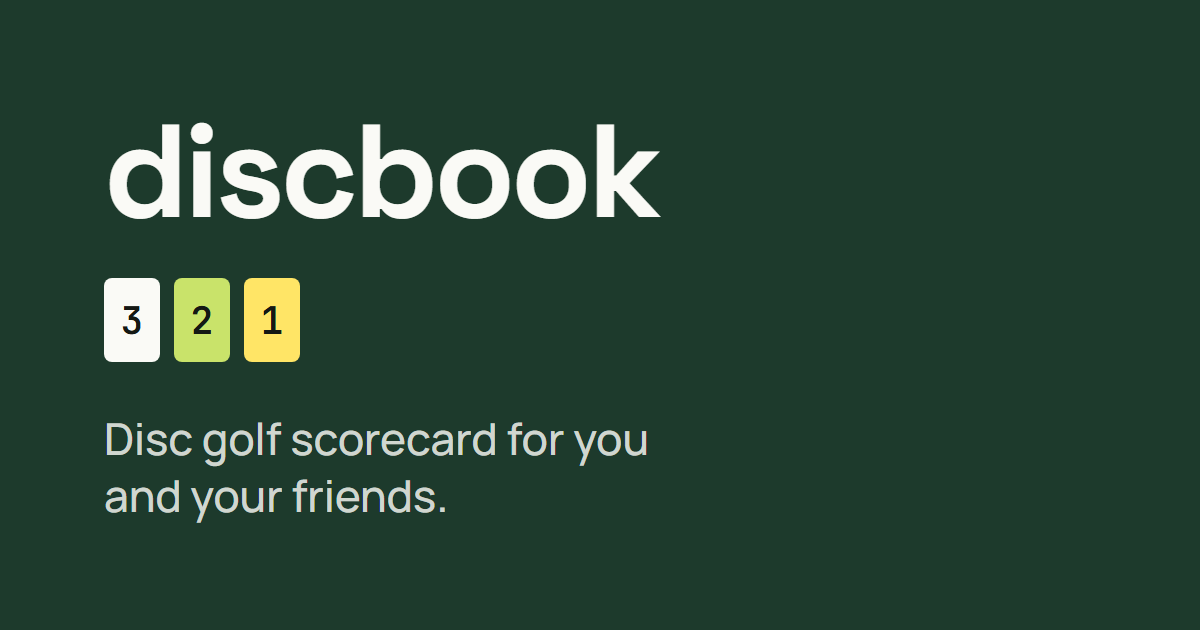
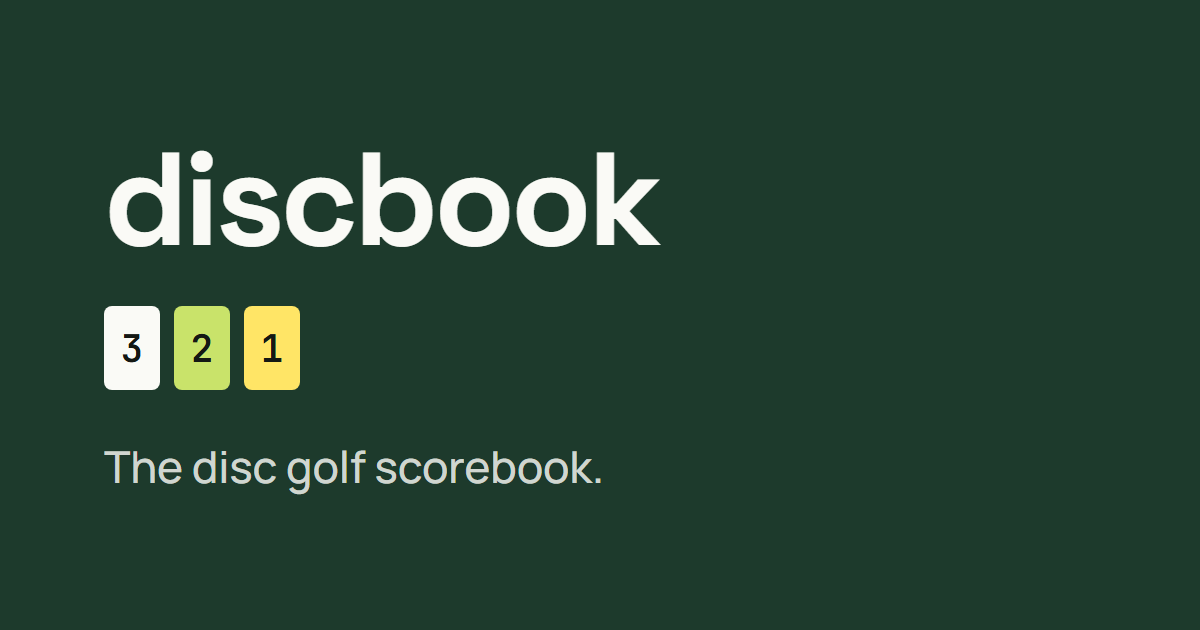
feat(app): "the disc golf scorebook" under the name (#90)
The tab title, link preview, share image and landing line now say
"discbook – the disc golf scorebook", so "-book" reads as scorebook.
Splash, wordmarks, home-screen name and emails stay just discbook.

diff --git a/app/layout.tsx b/app/layout.tsx
@@ -21,15 +21,17 @@ const spaceGrotesk = Space_Grotesk({
   subsets: ["latin", "latin-ext"],
 });
 
+/** The name plus its line (owner, 2026-11-24): "-book" reads as scorebook. */
+const TITLE = "discbook – the disc golf scorebook";
 const DESCRIPTION =
-  "Disc golf scorecard for you and your friends. 180+ courses in Estonia, live scores and your stats. No account needed to start.";
+  "The disc golf scorebook for you and your friends. 180+ courses in Estonia, live scores and your stats. No account needed to start.";
 
 // Link previews in chats use these plus app/opengraph-image.png (scripts/generate-icons.ts).
 // On Vercel the image URL's origin comes from the deployment, so no metadataBase.
 export const metadata: Metadata = {
-  title: "discbook",
+  title: TITLE,
   description: DESCRIPTION,
-  openGraph: { title: "discbook", description: DESCRIPTION, siteName: "discbook", type: "website" },
+  openGraph: { title: TITLE, description: DESCRIPTION, siteName: "discbook", type: "website" },
   twitter: { card: "summary_large_image" },
   manifest: "/manifest.webmanifest",
   // Home-screen app on iPhone: the page draws under the status bar (white clock);

diff --git a/scripts/generate-icons.ts b/scripts/generate-icons.ts
@@ -61,7 +61,7 @@ html,body{margin:0}
 </style></head><body>
 <div class="card"><div class="word">discbook</div>
 <div class="cells"><span class="cell" style="background:#fafaf6">3</span><span class="cell" style="background:#c9e36a">2</span><span class="cell" style="background:#ffe566">1</span></div>
-<div class="line">Disc golf scorecard for you<br>and your friends.</div></div></body></html>`;
+<div class="line">The disc golf scorebook.</div></div></body></html>`;
 }
 
 async function main() {

diff --git a/components/home/landing.tsx b/components/home/landing.tsx
@@ -126,7 +126,7 @@ export function LandingPage() {
               Score your round. Sign up later.
             </h1>
             <p className="text-[17px] leading-normal text-primary-foreground/80">
-              A disc golf scorecard for you and your friends, 180+ courses.
+              The disc golf scorebook for you and your friends, 180+ courses.
             </p>
           </div>
         </div>

diff --git a/DESIGN-PATTERNS.md b/DESIGN-PATTERNS.md
@@ -30,7 +30,7 @@ Chosen by the owner from three mockups (2026-10-24), refined in a second canvas 
 ### Screens (C2 artboards)
 
 - **Forest band** (owner, 2026-11-09): the top of Home and of the landing page is a forest (`bg-primary`) band; the first framed box overlaps its lower edge. On Home the band is slim: the 44 px wordmark row, 12 px of green, then the frame overlapping 40 px (owner: no empty green, Home fits one screen). **Status bar is forest on every page** (owner, 2026-11-09; one look in the browser and the home-screen app, since iOS sets it once per app): `themeColor` forest + `viewportFit: cover` in the root layout, `appleWebApp.statusBarStyle: black-translucent`, and a fixed forest strip the height of `env(safe-area-inset-top)` (zero in a browser tab). Anything pinned to the top of the screen pads by that inset (the full scorecard sheet does). **iOS 26 Safari ignores theme-color**: it tints its bars from a fixed element's background, else the body — so the body is forest (content sits on the light ground in `AppChrome`) and the forest tab bar is the fixed element. Screens without the tab bar (draft, scoring) have light fixed decks, so Safari may tint light there. Only these two screens — scoring, scorecards, lists and stats stay on the light ground.
-- **Landing page** (signed out `/`, `components/home/landing.tsx`): band with "discbook" + **Sign in**, headline **"Score your round. Sign up later."**, line "A disc golf scorecard for you and your friends, 180+ courses."; an **Example round** card overlapping the band (made-up 9-hole round, You and Bob; a picture, not the real scorecard; ace yellow `bg-ace`, eagle blue `bg-eagle`, birdie lime, bogey/double tan); **Start a round** (the nearest-course frame instead when Location is on — the page never asks for location) + "No account needed."; a continue-trial card takes that spot when this phone has a trial; **How it works** (1 Pick a course · Choose a layout and add the players. 2 Score your round · One person keeps the score. Everyone else can observe live. 3 See your progress · All your rounds in one place, with stats on how you play.); outlined **Browse courses**. One Start a round only. Plain text wordmark until the logo is chosen.
+- **Landing page** (signed out `/`, `components/home/landing.tsx`): band with "discbook" + **Sign in**, headline **"Score your round. Sign up later."**, line "The disc golf scorebook for you and your friends, 180+ courses."; an **Example round** card overlapping the band (made-up 9-hole round, You and Bob; a picture, not the real scorecard; ace yellow `bg-ace`, eagle blue `bg-eagle`, birdie lime, bogey/double tan); **Start a round** (the nearest-course frame instead when Location is on — the page never asks for location) + "No account needed."; a continue-trial card takes that spot when this phone has a trial; **How it works** (1 Pick a course · Choose a layout and add the players. 2 Score your round · One person keeps the score. Everyone else can observe live. 3 See your progress · All your rounds in one place, with stats on how you play.); outlined **Browse courses**. One Start a round only. Plain text wordmark until the logo is chosen.
 - **Score colours** (owner, 2026-11-09): ace yellow `bg-ace` (#FFE566), eagle blue `bg-eagle` (#6FA6D9), birdie lime `bg-good`, par plain, bogey `bg-over`, double+ `bg-over-strong` — on the scorecard, the landing example and `/design`. Course stats' score mix keeps one Birdie+ bar. Open: yellow and lime are close in lightness for colour-blind players; if that bites, mark the ace (outline or bold) rather than change hue.
 - **Home:** band with wordmark + "Tere, <name>" top right; the first frame overlaps the band, so it is always a frame (Continue round, else the nearest course), then invites and thank-yous; nearest course in a light framed section (label row "Nearest course · 1.8 km" (no divider under it since 2026-11-12), name (22 px display font, wraps to two lines, not the main thing on Home), layout count, forest "Start a round" → the course page). With a round in progress, Home shows **Continue round** instead (as today).
 - **Course page:** back arrow with **Your stats** (no arrow) on the same row → course name → "Last played 12.10 · Total rounds 6" → the map link. **Pick a layout:** each layout is a framed row (name, holes · par · meters) ending in a 44 px forest square with an arrow; the whole row starts the draft. Then About, then "Suggest a fix".
@@ -88,7 +88,7 @@ Chosen by the owner from three mockups (2026-10-24), refined in a second canvas 
 
 Four **equal-weight** tabs. Play's icon is **subtly** larger (`emphasized`, `size-6` vs `size-5`) — light accent only, **not** a primary-action button. Primary "start a round" flow lives on **Home** (near-you Start). Do not reintroduce a center create tab.
 
-**App icon and splash** (owner, 2026-11-23; icon changed 2026-11-24): icon = **db** (lower case, Space Grotesk 700, light) on forest, also in the browser tab; the phone writes **discbook** under it (owner, 2026-11-24: short, easy to say, "märgi db-sse"; the full wordmark was thin at icon size, and the D with cells did not work for them). The full name stays on the splash, the wordmarks, the share image and emails. The Android maskable icon draws it smaller to stay inside the safe circle; phones round the corners. Splash = the lower-case wordmark with three scorecard cells (the scorecard's 20 × 30 cell at 1.5×, strokes 3 · 2 · 1) popping in, on forest, first open per device only, about 1.8 s (under a second felt abrupt). **Name and link preview** (owner, 2026-11-24): the app is `discbook` (lower case; renamed from discore on 2026-11-24, see STATUS) in the tab title, the manifest and under the home-screen icon. Shared links show the description "Disc golf scorecard for you and your friends. 180+ courses in Estonia, live scores and your stats. No account needed to start." and `app/opengraph-image.png` (1200 × 630: wordmark, the 3 · 2 · 1 cells, "Disc golf scorecard for you and your friends." on forest). Regenerate the PNGs with `npx tsx scripts/generate-icons.ts`.
+**App icon and splash** (owner, 2026-11-23; icon changed 2026-11-24): name line = **"discbook – the disc golf scorebook"** (owner, 2026-11-24: "-book" reads as scorebook, not a social network) in the tab title, link preview, share image and landing; each round is still a *scorecard*. Icon = **db** (lower case, Space Grotesk 700, light) on forest, also in the browser tab; the phone writes **discbook** under it (owner, 2026-11-24: short, easy to say, "märgi db-sse"; the full wordmark was thin at icon size, and the D with cells did not work for them). The full name stays on the splash, the wordmarks, the share image and emails. The Android maskable icon draws it smaller to stay inside the safe circle; phones round the corners. Splash = the lower-case wordmark with three scorecard cells (the scorecard's 20 × 30 cell at 1.5×, strokes 3 · 2 · 1) popping in, on forest, first open per device only, about 1.8 s (under a second felt abrupt). **Name and link preview** (owner, 2026-11-24): the app is `discbook` (lower case; renamed from discore on 2026-11-24, see STATUS) in the tab title, the manifest and under the home-screen icon. Shared links show the description "Disc golf scorecard for you and your friends. 180+ courses in Estonia, live scores and your stats. No account needed to start." and `app/opengraph-image.png` (1200 × 630: wordmark, the 3 · 2 · 1 cells, "Disc golf scorecard for you and your friends." on forest). Regenerate the PNGs with `npx tsx scripts/generate-icons.ts`.
 
 **Forest tab bar** (owner, 2026-11-12, for more colour): `bg-primary`, tabs in light text at 70 %, the active tab full light + bold. No marker under it (owner, 2026-11-23: clutter). The bar is 56 px plus the iPhone home-line inset (was 72 px; owner, 2026-11-24: too much spacing).
 

diff --git a/STATUS.md b/STATUS.md
@@ -14,7 +14,8 @@ _Overwritten at the end of every session — describes now, not history (history
 - **Email confirmation (2026-11-24), merged (#81):** the default confirm link failed with "PKCE code verifier not found" when opened in another browser than the sign-up (home-screen app, mail app, another device). `/auth/confirm` verifies a `token_hash` instead and works anywhere, but only once the template `supabase/templates/confirmation.html` is pasted in Supabase, and Supabase allows editing templates only with custom SMTP (own domain). Until then old links fail softly ("sign in below"). Sign-up shows a **Check your email** screen. Tab bar 56 px + light ground to the screen height merged (#80).
 - **Home → Get started (2026-11-24), merged (#83):** "Check history" replaced by **Add discbook to your home screen** (install dialog on Android, steps sheet on iPhone; hidden on computers and in the home-screen app). Owner checks on the phone; the Android dialog can only be tested on a real Android phone.
 - **Forgot password (2026-11-24), merged (#84):** Sign in → Forgot password? → reset email → `/auth/confirm` (`type=recovery`) → Set a new password (the Change password view). Template `supabase/templates/recovery.html` waits for custom SMTP like the confirm one (LAUNCH-PLAN step 5); until then the default email links via `/auth/callback` (same browser only). Too many emails shows a plain "Try again in an hour".
-- **Renamed to discbook (owner, 2026-11-24), merged (#88):** an old disc golf scorecard app from an Estonian company already uses "Discore" (App Store), and discore.com/.app/.eu are taken, so the app is now **discbook** (lower case) everywhere players see it: wordmarks, splash, title, home-screen name, icons (now **db**, with discbook written under it by the phone; in a PR), share image, email templates. Kept on purpose: the repo, Vercel and Supabase project names, `localStorage` keys (`discore-*`, renaming them would reset players' settings and trials) and type names. Domain to buy: `discbook.ee` (LAUNCH-PLAN). Phones keep the old icon until it is removed and added again.
+- **Renamed to discbook (owner, 2026-11-24), merged (#88):** an old disc golf scorecard app from an Estonian company already uses "Discore" (App Store), and discore.com/.app/.eu are taken, so the app is now **discbook** (lower case) everywhere players see it: wordmarks, splash, title, home-screen name, icons (**db**, with discbook written under it by the phone; #89), share image, email templates. Kept on purpose: the repo, Vercel and Supabase project names, `localStorage` keys (`discore-*`, renaming them would reset players' settings and trials) and type names. Domain to buy: `discbook.ee` (LAUNCH-PLAN). Phones keep the old icon until it is removed and added again.
+- **Name line (owner, 2026-11-24), in a PR:** "discbook – the disc golf scorebook" in the tab title, link preview, share image and the landing line; splash, wordmarks, home-screen name and emails stay just discbook.
 - **Link preview (2026-11-24), merged (#86):** title and home-screen name (now `discbook`), a real description, and a share image (`app/opengraph-image.png`, drawn by `scripts/generate-icons.ts`). Later: course links with the course name in the preview.
 - **Next: [LAUNCH-PLAN.md](LAUNCH-PLAN.md)** (owner, 2026-11-24: doing it soon, don't lose it). Domain `discbook.ee` → Vercel + Supabase URLs → Resend as custom SMTP → paste the confirm template → email rate limit 2/h → 100/h → test as a new player; then Forgot password, a privacy page and Delete account (Claude, one PR each). Today the app can send only **2 emails an hour**.
 - **Next:** pick with the owner. Candidates: per-round par override, advanced scoring (Roadmap 5), README with screenshots. Owner's own: the security review on the PC; a margins/paddings pass screen by screen when they want it.
